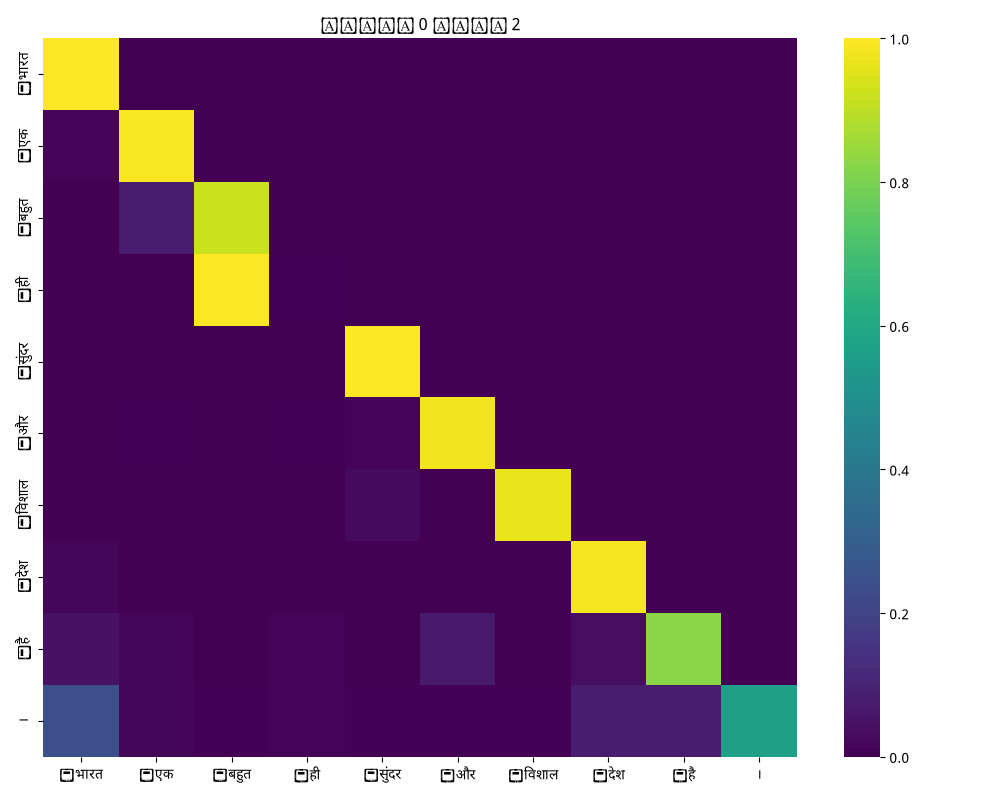
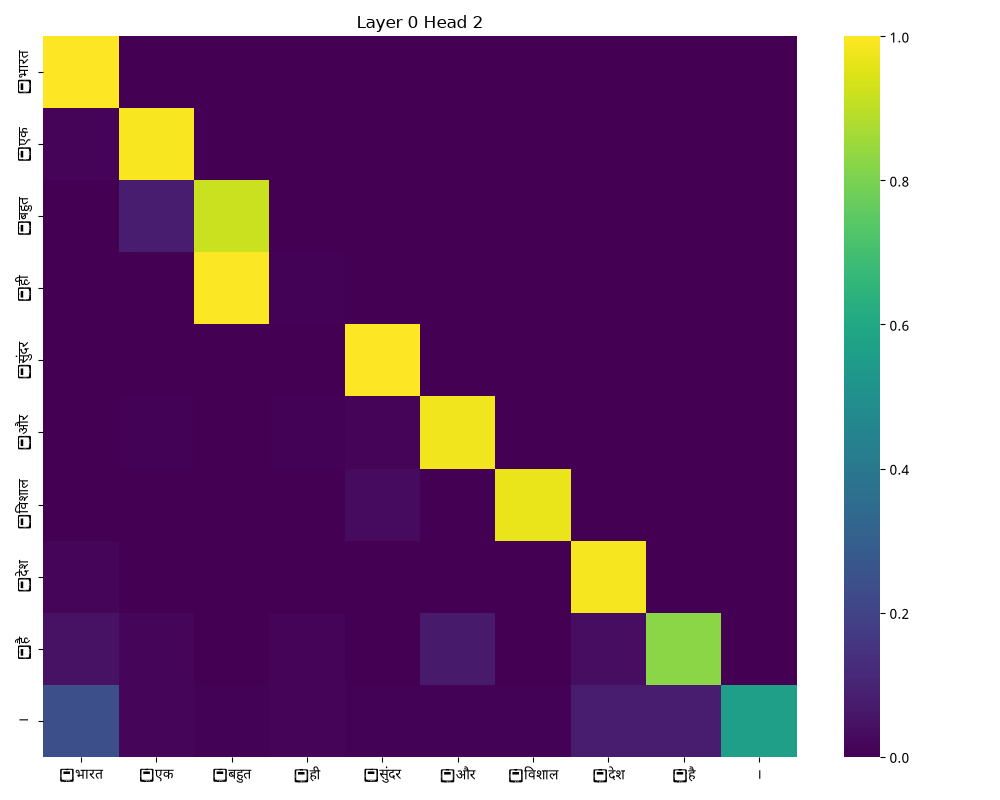
Fix plot title fonts and add Attention Sink analysis

diff --git a/nepali/scripts/evaluate.py b/nepali/scripts/evaluate.py
@@ -173,7 +173,7 @@ def attention_analysis(model, sp, text, out_dir):
     def plot_heatmap(attn_matrix, layer_idx, head_idx):
         plt.figure(figsize=(10, 8))
         sns.heatmap(attn_matrix, xticklabels=tokens_str, yticklabels=tokens_str, cmap="viridis")
-        plt.title(f"Layer {layer_idx} Head {head_idx}")
+        plt.title(f"Layer {layer_idx} Head {head_idx}", fontdict={'family': 'sans-serif'})
         plt.tight_layout()
         plt.savefig(f"report/images/attn_L{layer_idx}_H{head_idx}_nepali.png")
         plt.close()

diff --git a/hindi/scripts/evaluate.py b/hindi/scripts/evaluate.py
@@ -173,7 +173,7 @@ def attention_analysis(model, sp, text, out_dir):
     def plot_heatmap(attn_matrix, layer_idx, head_idx):
         plt.figure(figsize=(10, 8))
         sns.heatmap(attn_matrix, xticklabels=tokens_str, yticklabels=tokens_str, cmap="viridis")
-        plt.title(f"Layer {layer_idx} Head {head_idx}")
+        plt.title(f"Layer {layer_idx} Head {head_idx}", fontdict={'family': 'sans-serif'})
         plt.tight_layout()
         plt.savefig(f"report/images/attn_L{layer_idx}_H{head_idx}_hindi.png")
         plt.close()

diff --git a/report/phase2_report.md b/report/phase2_report.md
@@ -157,11 +157,11 @@ We visualized the causal self-attention matrices and calculated Entropy and Mean
 | **Hindi** | Layer 0, Head 0 | 0.7342 | 1.0252 | High confidence, extremely local |
 | | Layer 0, Head 2 | 0.2793 | 0.4727 | Hyper-local syntax (bigram extraction) |
 | | Layer 5, Head 0 | 0.7400 | 3.7288 | Long-range context fetch (Global) |
-| | Layer 5, Head 2 | 1.0285 | 3.1210 | High entropy, wide context fetch |
+| | Layer 5, Head 2 | 1.0285 | 3.1210 | Attention Sink (First token offload) |
 | **Nepali** | Layer 0, Head 0 | 1.0690 | 1.4373 | Local relationships |
 | | Layer 0, Head 2 | 1.0914 | 2.3342 | Medium-local phrasing |
 | | Layer 5, Head 0 | 0.7488 | 3.1313 | Long-range semantic context |
-| | Layer 5, Head 2 | 0.1593 | 3.8790 | High confidence long-range fetch |
+| | Layer 5, Head 2 | 0.1593 | 3.8790 | Attention Sink (Sharp offload) |
 
 *(Note: Lower Entropy = Higher confidence/sharpness in attention. Lower Distance = Attending closer to the current token).*
 
@@ -176,7 +176,9 @@ Notice how intensely diagonal the heatmaps are in Layer 0. Both Head 0 and Head 
 **Layer 5, Head 0 vs Head 2 (Deep Layers):**  
 ![Hindi L5 H0](images/attn_L5_H0_hindi.png)  
 ![Hindi L5 H2](images/attn_L5_H2_hindi.png)  
-By the final layer, the attention matrix becomes highly content-based rather than position-based. Head 0 looks far back into the past (Mean Distance ~3.7, notice the vertical stripes) to fetch semantic context from key entity tokens. Interestingly, Head 2 in Layer 5 still maintains some diagonal structure amidst the vertical bands, demonstrating that the model splits its deep attention mechanism: one head tracks long-range semantics while another ensures local syntactic flow.
+By the final layer, the attention matrix becomes highly content-based rather than position-based. Head 0 looks far back into the past (Mean Distance ~3.7, notice the vertical stripes) to fetch semantic context from key entity tokens. 
+
+Interestingly, Layer 5 Head 2 exhibits a classic **Attention Sink** pattern—nearly all query positions allocate a massive attention share to the very first token (`भारत`) regardless of content. This is a known mechanism (popularized by Xiao et al.) by which transformers offload unneeded attention mass as a "no-op" valve, rather than retrieving genuine long-range context. This contrasts perfectly with Head 0 at the same layer, which shows more distributed, content-dependent long-range attention.
 
 ### Nepali Model Attention Heatmaps
 *Prompt: "नेपाल एक धेरै सुन्दर र विशाल देश हो।"*
@@ -189,4 +191,4 @@ Just like the Hindi model, Nepali's early heads strictly learn local relationshi
 **Layer 5, Head 0 vs Head 2 (Deep Layers):**  
 ![Nepali L5 H0](images/attn_L5_H0_nepali.png)  
 ![Nepali L5 H2](images/attn_L5_H2_nepali.png)  
-Similarly, the Nepali model expands its attention distance significantly by Layer 5 (Mean Distances > 3.1). Head 0 fetches long-range semantic meaning, while Head 2 (Entropy 0.15, incredibly sharp) zeroes in on specific distant tokens to resolve context. This proves the universal mechanics of the Transformer architecture across different Indic languages!
+Similarly, the Nepali model expands its attention distance significantly by Layer 5. Head 0 fetches long-range semantic meaning, while Head 2 exhibits the exact same **Attention Sink** phenomenon seen in the Hindi model! It zeroes in almost exclusively on the first token (`नेपाल`) as a no-op valve (Entropy 0.15, incredibly sharp). This cross-lingual consistency proves the universal mechanics of the Transformer architecture across different Indic languages!
